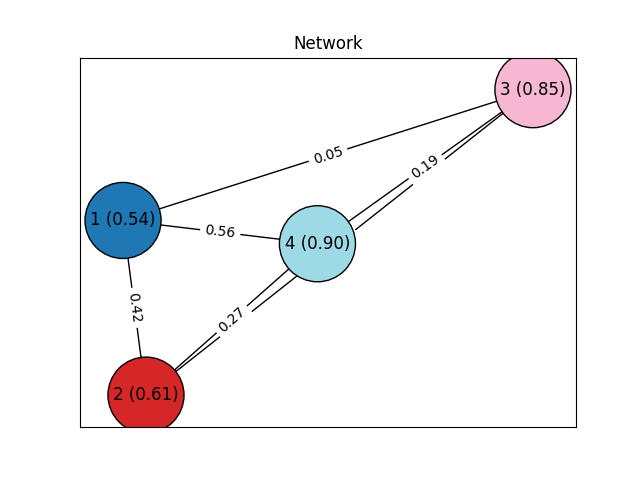
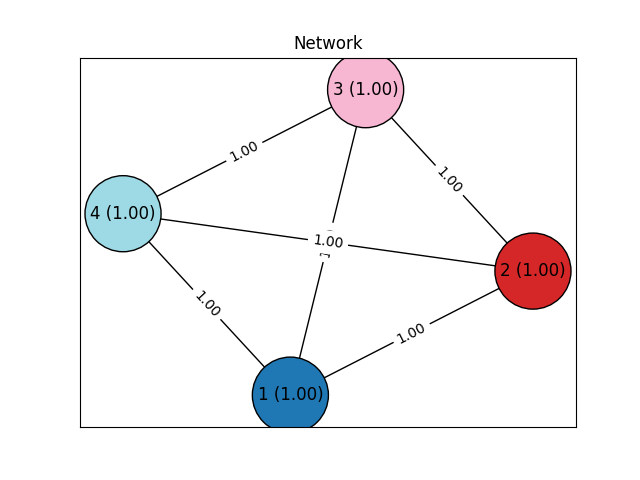
Adds MinMin Scheduler

diff --git a/saga/common/minmin.py b/saga/common/minmin.py
@@ -1,129 +1,170 @@
-from ..base import Scheduler, Task
-from ..utils.tools import check_instance_simple
+# from ..base import Scheduler, Task
+# from ..utils.tools import check_instance_simple
 
-import itertools
-from typing import Dict, Hashable, List, Tuple
+# from typing import Dict, Hashable, List
 
-import networkx as nx
-import numpy as np
+# import networkx as nx
 
+# class MinMinScheduler(Scheduler):
+#     def __init__(self):
+#         super().__init__()
 
-class MinMinScheduler(Scheduler):
-    def __init__(self):
-        super().__init__()
+#     def schedule(self, network: nx.Graph, task_graph: nx.DiGraph) -> Dict[Hashable, List[Task]]:
+#         """Returns the best schedule (minimizing makespan) for a problem instance using the MinMin Algorithm.
 
-    def schedule(self, network: nx.Graph, task_graph: nx.DiGraph) -> Dict[Hashable, List[Task]]:
-        """Returns the best schedule (minimizing makespan) for a problem instance using Minmin
+#         Args:
+#             network: Network
+#             task_graph: Task graph
 
-        Args:
-            network: Network
-            task_graph: Task graph
+#         Returns:
+#             A dictionary of the schedule
+#         """
+#         check_instance_simple(network, task_graph)
 
-        Returns:
-            A dictionary of the schedule
-        """
-        check_instance_simple(network, task_graph)
+#         # Initialize schedule as an empty dictionary
+#         schedule = {node: [] for node in network.nodes}
 
-        # Initialize schedule as an empty dictionary
-        schedule = {node: [] for node in network.nodes}
+#         # While there are unscheduled tasks
+#         while task_graph.number_of_nodes() > 0:
+#             # Calculate earliest completion time for each task on each machine
+#             ect = {}
+#             for task in task_graph.nodes:
+#                 for machine in network.nodes:
+#                     communication_time = max([task_graph.edges[pred, task]['weight'] for pred in task_graph.predecessors(task)] or [0])
+#                     execution_time = task_graph.nodes[task]['weight'] / network.nodes[machine]['weight']
+#                     completion_time = max([task.end for task in schedule[machine]] or [0]) + communication_time + execution_time
+#                     ect[(task, machine)] = completion_time
 
-        # While there are unscheduled tasks
-        while task_graph.number_of_nodes() > 0:
-            # Calculate earliest completion time for each task on each machine
-            ect = {}
-            for task in task_graph.nodes:
-                for machine in network.nodes:
-                    communication_time = max(
-                        [task_graph.edges[pred, task]['weight'] for pred in task_graph.predecessors(task)] or [0])
-                    execution_time = task_graph.nodes[task]['weight'] / \
-                        network.nodes[machine]['weight']
-                    completion_time = max([task.end for task in schedule[machine]] or [
-                                          0]) + communication_time + execution_time
-                    ect[(task, machine)] = completion_time
+#             # Find task-machine pair with minimum earliest completion time
+#             min_task, min_machine = min(ect, key=ect.get)
 
-            # Find task-machine pair with minimum earliest completion time
-            min_task, min_machine = min(ect, key=ect.get)
+#             # Add the task to the schedule
+#             task = Task(start=max([task.end for task in schedule[min_machine]] or [0]),
+#                         end=ect[(min_task, min_machine)],
+#                         task=min_task,
+#                         machine=min_machine)
+#             schedule[min_machine].append(task)
 
-            # Add the task to the schedule
-            task = Task(start=max([task.end for task in schedule[min_machine]] or [0]),
-                        end=ect[(min_task, min_machine)],
-                        task=min_task,
-                        machine=min_machine)
-            schedule[min_machine].append(task)
+#             # Remove the scheduled task from the task graph
+#             task_graph.remove_node(min_task)
 
-            # Remove the scheduled task from the task graph
-            task_graph.remove_node(min_task)
-
-        return schedule
+#         return schedule
 
       
 # Sanjana implementation
-# from typing import Dict, Hashable, List, Optional
-# import networkx as nx
-# import numpy as np
+from itertools import product
+from typing import Dict, Hashable, List, Optional
+import networkx as nx
+import numpy as np
 
-# from ..base import Scheduler, Task
-# from ..utils.tools import check_instance_simple
-# 
-# class MinMinScheduler(Scheduler):
-#     def __init__(self, runtimes, commtimes, machine_capacities, task_resources):
-#         super(MinMinScheduler, self).__init__()
-#         self.runtimes = runtimes
-#         self.commtimes = commtimes
-#         self.machine_capacities = machine_capacities
-#         self.task_resources = task_resources
-# 
-#     def schedule(self, network: nx.Graph, task_graph: nx.DiGraph) -> Dict[Hashable, List[Task]]:
-#         check_instance_simple(network, task_graph)
-#         num_machines = len(network.nodes)
-#         num_tasks = len(task_graph.nodes)
-#         schedule = {node: [] for node in network.nodes}
-#         machines = {node: {'EAT': 0, 'resources': 0} for node in network.nodes}
-# 
-#         EET = np.zeros((num_tasks, num_machines))
-#         FAT = np.zeros((num_tasks, num_machines))
-# 
-#         for i, task in enumerate(task_graph.nodes):
-#             for j, node in enumerate(network.nodes):
-#                 EET[i, j] = self.runtimes[node][task]
-#                 FAT[i, j] = max([self.commtimes[(task, dep_task)][(node, schedule[dep_node][-1].end)] + machines[dep_node]['EAT'] 
-#                                  for dep_node, dep_task in schedule.items() if dep_task and task_graph.has_edge(dep_task[-1].name, task)], 
-#                                  default=0)
-# 
-#         for task in task_graph.nodes:
-#             # print(f"Processing task {task}")
-#             # print(f"Task resources required: {self.task_resources[task]}")
-#             # for machine in machines:
-#             #     print(f"Machine {machine} current resources: {machines[machine]['resources']}")
-#             #     print(f"Machine {machine} capacity: {self.machine_capacities[machine]}")
-#             # viable_machines = [machine for machine in machines if self.machine_capacities[machine] - machines[machine]['resources'] >= self.task_resources[task]]
-#             # if not viable_machines:
-#             #     print(f"No viable machines for task {task}")
-#             #     raise ValueError(f"No viable machines for task {task}")
-#             task_index = list(task_graph.nodes).index(task)
-#             machine_indices = [list(network.nodes).index(machine) for machine in machines]
-#             min_machine_index = machine_indices[np.argmin(EET[task_index, machine_indices] + np.maximum(FAT[task_index, machine_indices], [machines[machine]['EAT'] for machine in machines]))]
-#             min_machine = list(network.nodes)[min_machine_index]
-# 
-#             # start_time = 0
-#             # end_time = 1
-# 
-#             task_obj = Task(min_machine, task, start_time, end_time)
-#             task_obj.node = min_machine
-#             task_obj.name = task
-#             task_obj.start = machines[min_machine]['EAT']
-#             task_obj.end = machines[min_machine]['EAT'] + EET[task_index, min_machine_index]
-# 
-#             schedule[min_machine].append(task_obj)
-# 
-#             machines[min_machine]['EAT'] += EET[task_index, min_machine_index]
-#             machines[min_machine]['resources'] += self.task_resources[task]
-# 
-#             for next_task in task_graph.successors(task):
-#                 next_task_index = list(task_graph.nodes).index(next_task)
-#                 for node in network.nodes:
-#                     if ((task, next_task) in self.commtimes) and ((min_machine, node) in self.commtimes[(task, next_task)]):
-#                         FAT[next_task_index, list(network.nodes).index(node)] = max(FAT[next_task_index, list(network.nodes).index(node)], 
-#                                                    self.commtimes[(task, next_task)][(min_machine, node)] + machines[min_machine]['EAT'] if task != next_task else 0)
-# 
-#         return schedule
+from ..base import Scheduler, Task
+from ..utils.tools import check_instance_simple
+
+class MinMinScheduler(Scheduler):
+    def __init__(self):
+        super(MinMinScheduler, self).__init__()
+
+    def schedule(self, network: nx.Graph, task_graph: nx.DiGraph) -> Dict[Hashable, List[Task]]:
+        check_instance_simple(network, task_graph)
+
+        schedule: Dict[Hashable, List[Task]] = {}
+        scheduled_tasks: Dict[Hashable, Task] = {} # Map from task_name to Task
+
+        def EET(task: Hashable, node: Hashable) -> float:
+            return task_graph.nodes[task]['weight'] / network.nodes[node]['weight']
+        
+        def COMMTIME(task1: Hashable, task2: Hashable, node1: Hashable, node2: Hashable) -> float:
+            return task_graph.edges[task1, task2]['weight'] / network.edges[node1, node2]['weight']
+
+        # EAT = {node: 0 for node in network.nodes}
+        def EAT(node: Hashable) -> float:
+            eat = schedule[node][-1].end if schedule.get(node) else 0
+            print(f"  EAT for node {node}: {eat}")
+            return eat
+        
+        # FAT = np.zeros((num_tasks, num_machines))
+        def FAT(task: Hashable, node: Hashable) -> float:
+            fat = 0 if task_graph.in_degree(task) <= 0 else max([
+                # schedule[r_schedule[pred_task]][-1].end + 
+                scheduled_tasks[pred_task].end +
+                COMMTIME(pred_task, task, scheduled_tasks[pred_task].node, node)
+                for pred_task in task_graph.predecessors(task)
+            ]) 
+            print(f"  FAT for task {task} on node {node}: {fat}")
+            return fat
+        
+        def ECT(task: Hashable, node: Hashable) -> float:
+            return EET(task, node) + max(EAT(node), FAT(task, node))
+        
+        while len(scheduled_tasks) < task_graph.order():
+            available_tasks = [
+                task for task in task_graph.nodes
+                if task not in scheduled_tasks and set(task_graph.predecessors(task)).issubset(set(scheduled_tasks.keys()))
+            ]
+            while available_tasks:
+                sched_task, sched_node = min(
+                    product(available_tasks, network.nodes),
+                    key=lambda instance: ECT(instance[0], instance[1])
+                )
+                print(f"ECTS")
+                for (task, node) in product(available_tasks, network.nodes):
+                    print(f"  Task {task} on node {node}: {ECT(task, node)}")
+                schedule.setdefault(sched_node, [])
+                new_task = Task(
+                    node=sched_node,
+                    name=sched_task,
+                    start=EAT(sched_node),
+                    end=ECT(sched_task, sched_node)
+                )
+                schedule[sched_node].append(new_task)
+                scheduled_tasks[sched_task] = new_task
+                print(f"Task {sched_task} scheduled on machine {sched_node}")
+                available_tasks.remove(sched_task)
+
+        return schedule
+
+
+        # for i, task in enumerate(task_graph.nodes):
+        #     for j, node in enumerate(network.nodes):
+        #         EET[i, j] = task_graph.nodes[task]['weight'] / network.nodes[node]['weight']
+        #         FAT[i, j] = max([self.commtimes[(task, dep_task)][(node, schedule[dep_node][-1].end)] + machines[dep_node]['EAT'] 
+        #                          for dep_node, dep_task in schedule.items() if dep_task and task_graph.has_edge(dep_task[-1].name, task)], 
+        #                          default=0)
+
+        # for task in task_graph.nodes:
+        #     # print(f"Processing task {task}")
+        #     # print(f"Task resources required: {self.task_resources[task]}")
+        #     # for machine in machines:
+        #     #     print(f"Machine {machine} current resources: {machines[machine]['resources']}")
+        #     #     print(f"Machine {machine} capacity: {self.machine_capacities[machine]}")
+        #     # viable_machines = [machine for machine in machines if self.machine_capacities[machine] - machines[machine]['resources'] >= self.task_resources[task]]
+        #     # if not viable_machines:
+        #     #     print(f"No viable machines for task {task}")
+        #     #     raise ValueError(f"No viable machines for task {task}")
+        #     task_index = list(task_graph.nodes).index(task)
+        #     machine_indices = [list(network.nodes).index(machine) for machine in machines]
+        #     min_machine_index = machine_indices[np.argmin(EET[task_index, machine_indices] + np.maximum(FAT[task_index, machine_indices], [machines[machine]['EAT'] for machine in machines]))]
+        #     min_machine = list(network.nodes)[min_machine_index]
+
+        #     # start_time = 0
+        #     # end_time = 1
+
+        #     task_obj = Task(min_machine, task, start_time, end_time)
+        #     task_obj.node = min_machine
+        #     task_obj.name = task
+        #     task_obj.start = machines[min_machine]['EAT']
+        #     task_obj.end = machines[min_machine]['EAT'] + EET[task_index, min_machine_index]
+
+        #     schedule[min_machine].append(task_obj)
+
+        #     machines[min_machine]['EAT'] += EET[task_index, min_machine_index]
+        #     machines[min_machine]['resources'] += self.task_resources[task]
+
+        #     for next_task in task_graph.successors(task):
+        #         next_task_index = list(task_graph.nodes).index(next_task)
+        #         for node in network.nodes:
+        #             if ((task, next_task) in self.commtimes) and ((min_machine, node) in self.commtimes[(task, next_task)]):
+        #                 FAT[next_task_index, list(network.nodes).index(node)] = max(FAT[next_task_index, list(network.nodes).index(node)], 
+        #                                            self.commtimes[(task, next_task)][(min_machine, node)] + machines[min_machine]['EAT'] if task != next_task else 0)
+
+        return schedule

diff --git a/examples/minmin/main.py b/examples/minmin/main.py
@@ -16,36 +16,29 @@ def main():
     task_graph.add_nodes_from([1, 2, 3, 4])
     task_graph.add_edges_from([(1, 2), (1, 3), (2, 4), (3, 4)])
 
-    runtimes = {}
-    commtimes = {}
-    machine_capacities = {}
-    task_resources = {}
-
     for node in task_graph.nodes:
-        task_graph.nodes[node]['weight'] = np.random.rand()
-        runtimes[node] = {task: np.random.rand() for task in task_graph.nodes}
-        task_resources[node] = np.random.rand()
-
-    for edge in task_graph.edges:
-        task_graph.edges[edge]['weight'] = np.random.rand()
-        commtimes[edge] = {(task1, task2): np.random.rand() for task1 in task_graph.nodes for task2 in task_graph.nodes if task1 != task2}
+        task_graph.nodes[node]['weight'] = 1
+    
+    for (src, dst) in task_graph.edges:
+        task_graph.edges[src, dst]['weight'] = 1e-9
 
     # generate a fully-connected network with random node and edge weights between 0 and 1
     network = nx.Graph()
     network.add_nodes_from([1, 2, 3, 4])
 
     for node in network.nodes:
-        network.nodes[node]['weight'] = np.random.rand()
-        machine_capacities[node] = np.random.rand()
+        network.nodes[node]['weight'] = 1
 
     for (src, dst) in itertools.product(network.nodes, network.nodes):
         if src != dst:
-            network.add_edge(src, dst, weight=np.random.rand())
+            network.add_edge(src, dst, weight=1)
         else:
             network.add_edge(src, dst, weight=1e9)
 
-    scheduler = MinMinScheduler(runtimes, commtimes, machine_capacities, task_resources)
+    scheduler = MinMinScheduler()
     schedule = scheduler.schedule(network, task_graph)
+
+    print(schedule)
 
     # draw the task graph
     ax: plt.Axes = draw_task_graph(task_graph)

diff --git a/tests/schedulers.py b/tests/schedulers.py
@@ -10,6 +10,7 @@ from saga.common.cpop import CPOPScheduler
 from saga.common.fastest_node import FastestNodeScheduler
 from saga.common.heft import HeftScheduler
 from saga.common.brute_force import BruteForceScheduler
+from saga.common.minmin import MinMinScheduler
 from saga.stochastic.sheft import SheftScheduler
 from saga.stochastic.stoch_heft import StochHeftScheduler
 from saga.stochastic.improved_sheft import ImprovedSheftScheduler
@@ -128,10 +129,11 @@ def test_common_schedulers():
     }
     network = add_random_weights(get_network())
     schedulers = [
-        HeftScheduler(),
-        CPOPScheduler(),
-        FastestNodeScheduler(),
-        BruteForceScheduler(),
+        # HeftScheduler(),
+        # CPOPScheduler(),
+        # FastestNodeScheduler(),
+        # BruteForceScheduler(),
+        MinMinScheduler(),
     ]
 
     for scheduler in schedulers:
@@ -142,7 +144,8 @@ def test_common_schedulers():
                 scheduler=scheduler,
                 network=network.copy(),
                 task_graph=task_graph.copy(),
-                path=thisdir / "output" / "schedulers"
+                path=thisdir / "output" / "schedulers",
+                save_passing=True
             )
             passed = test.run()
             print(f"{test.name} passed: {passed}")
@@ -201,8 +204,8 @@ def test_stochastic_schedulers():
 
 def test():
     test_common_schedulers()
-    test_reweighting_stochastic_schedulers()
-    test_stochastic_schedulers()
+    # test_reweighting_stochastic_schedulers()
+    # test_stochastic_schedulers()
     
 if __name__ == "__main__":
     test()
